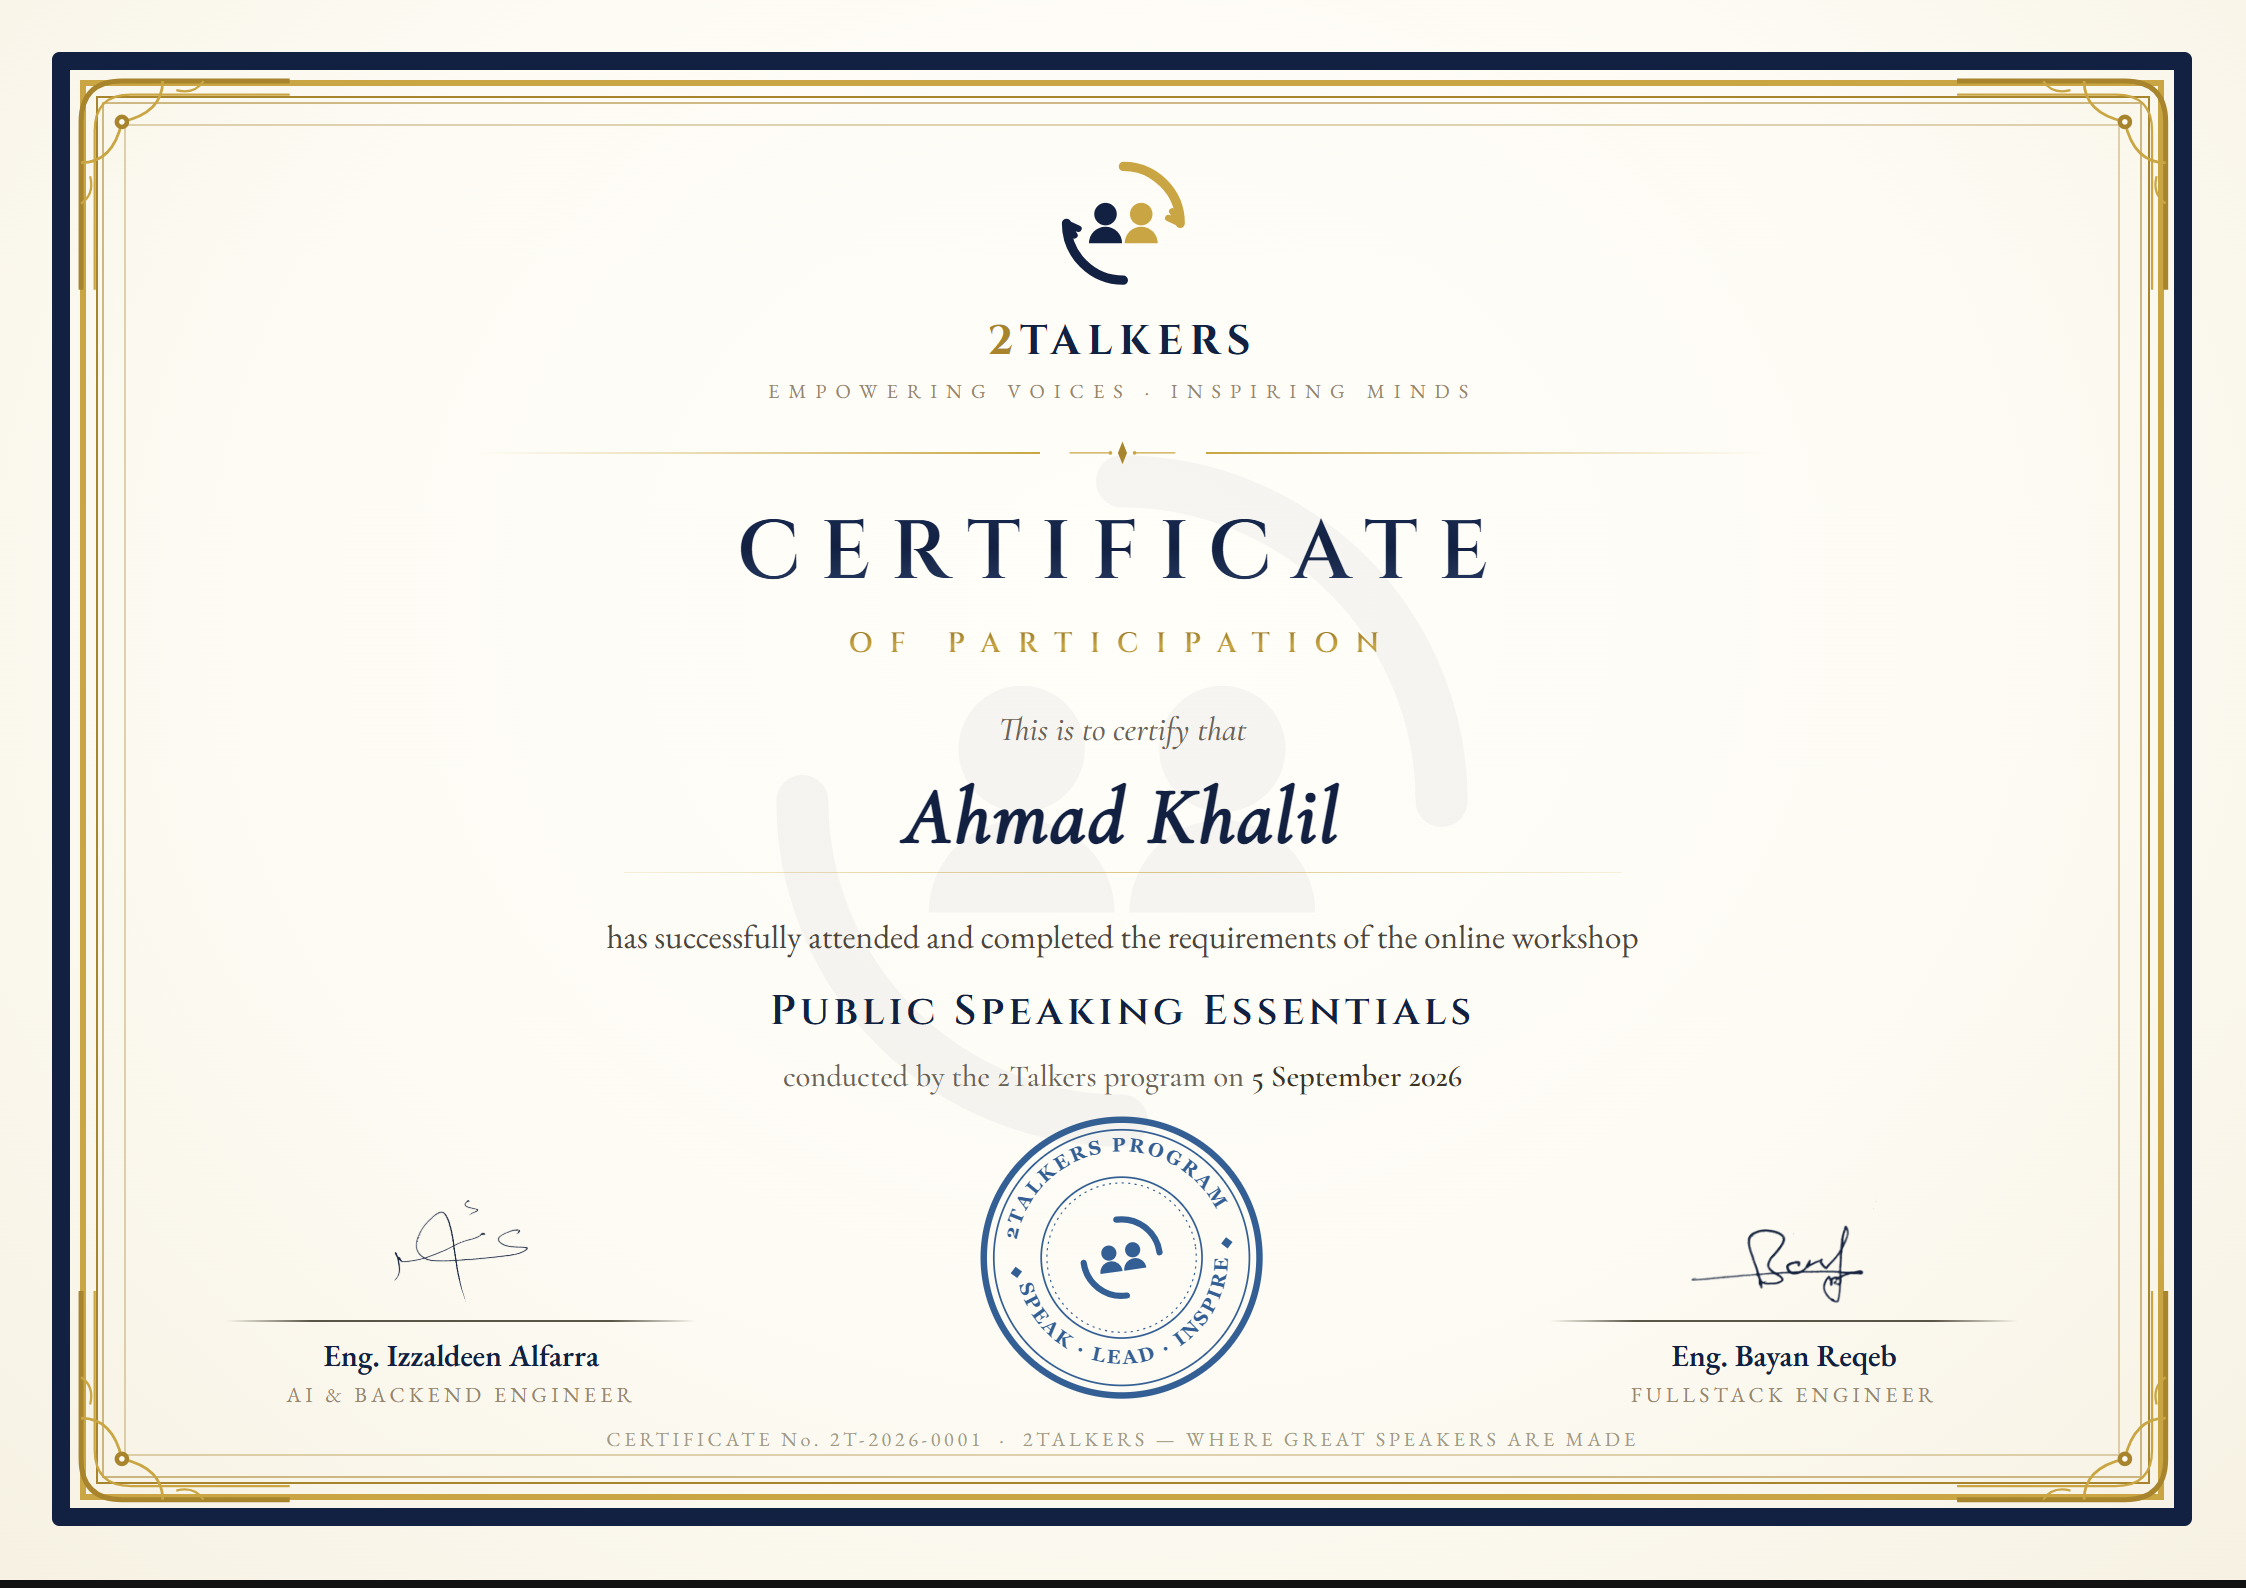
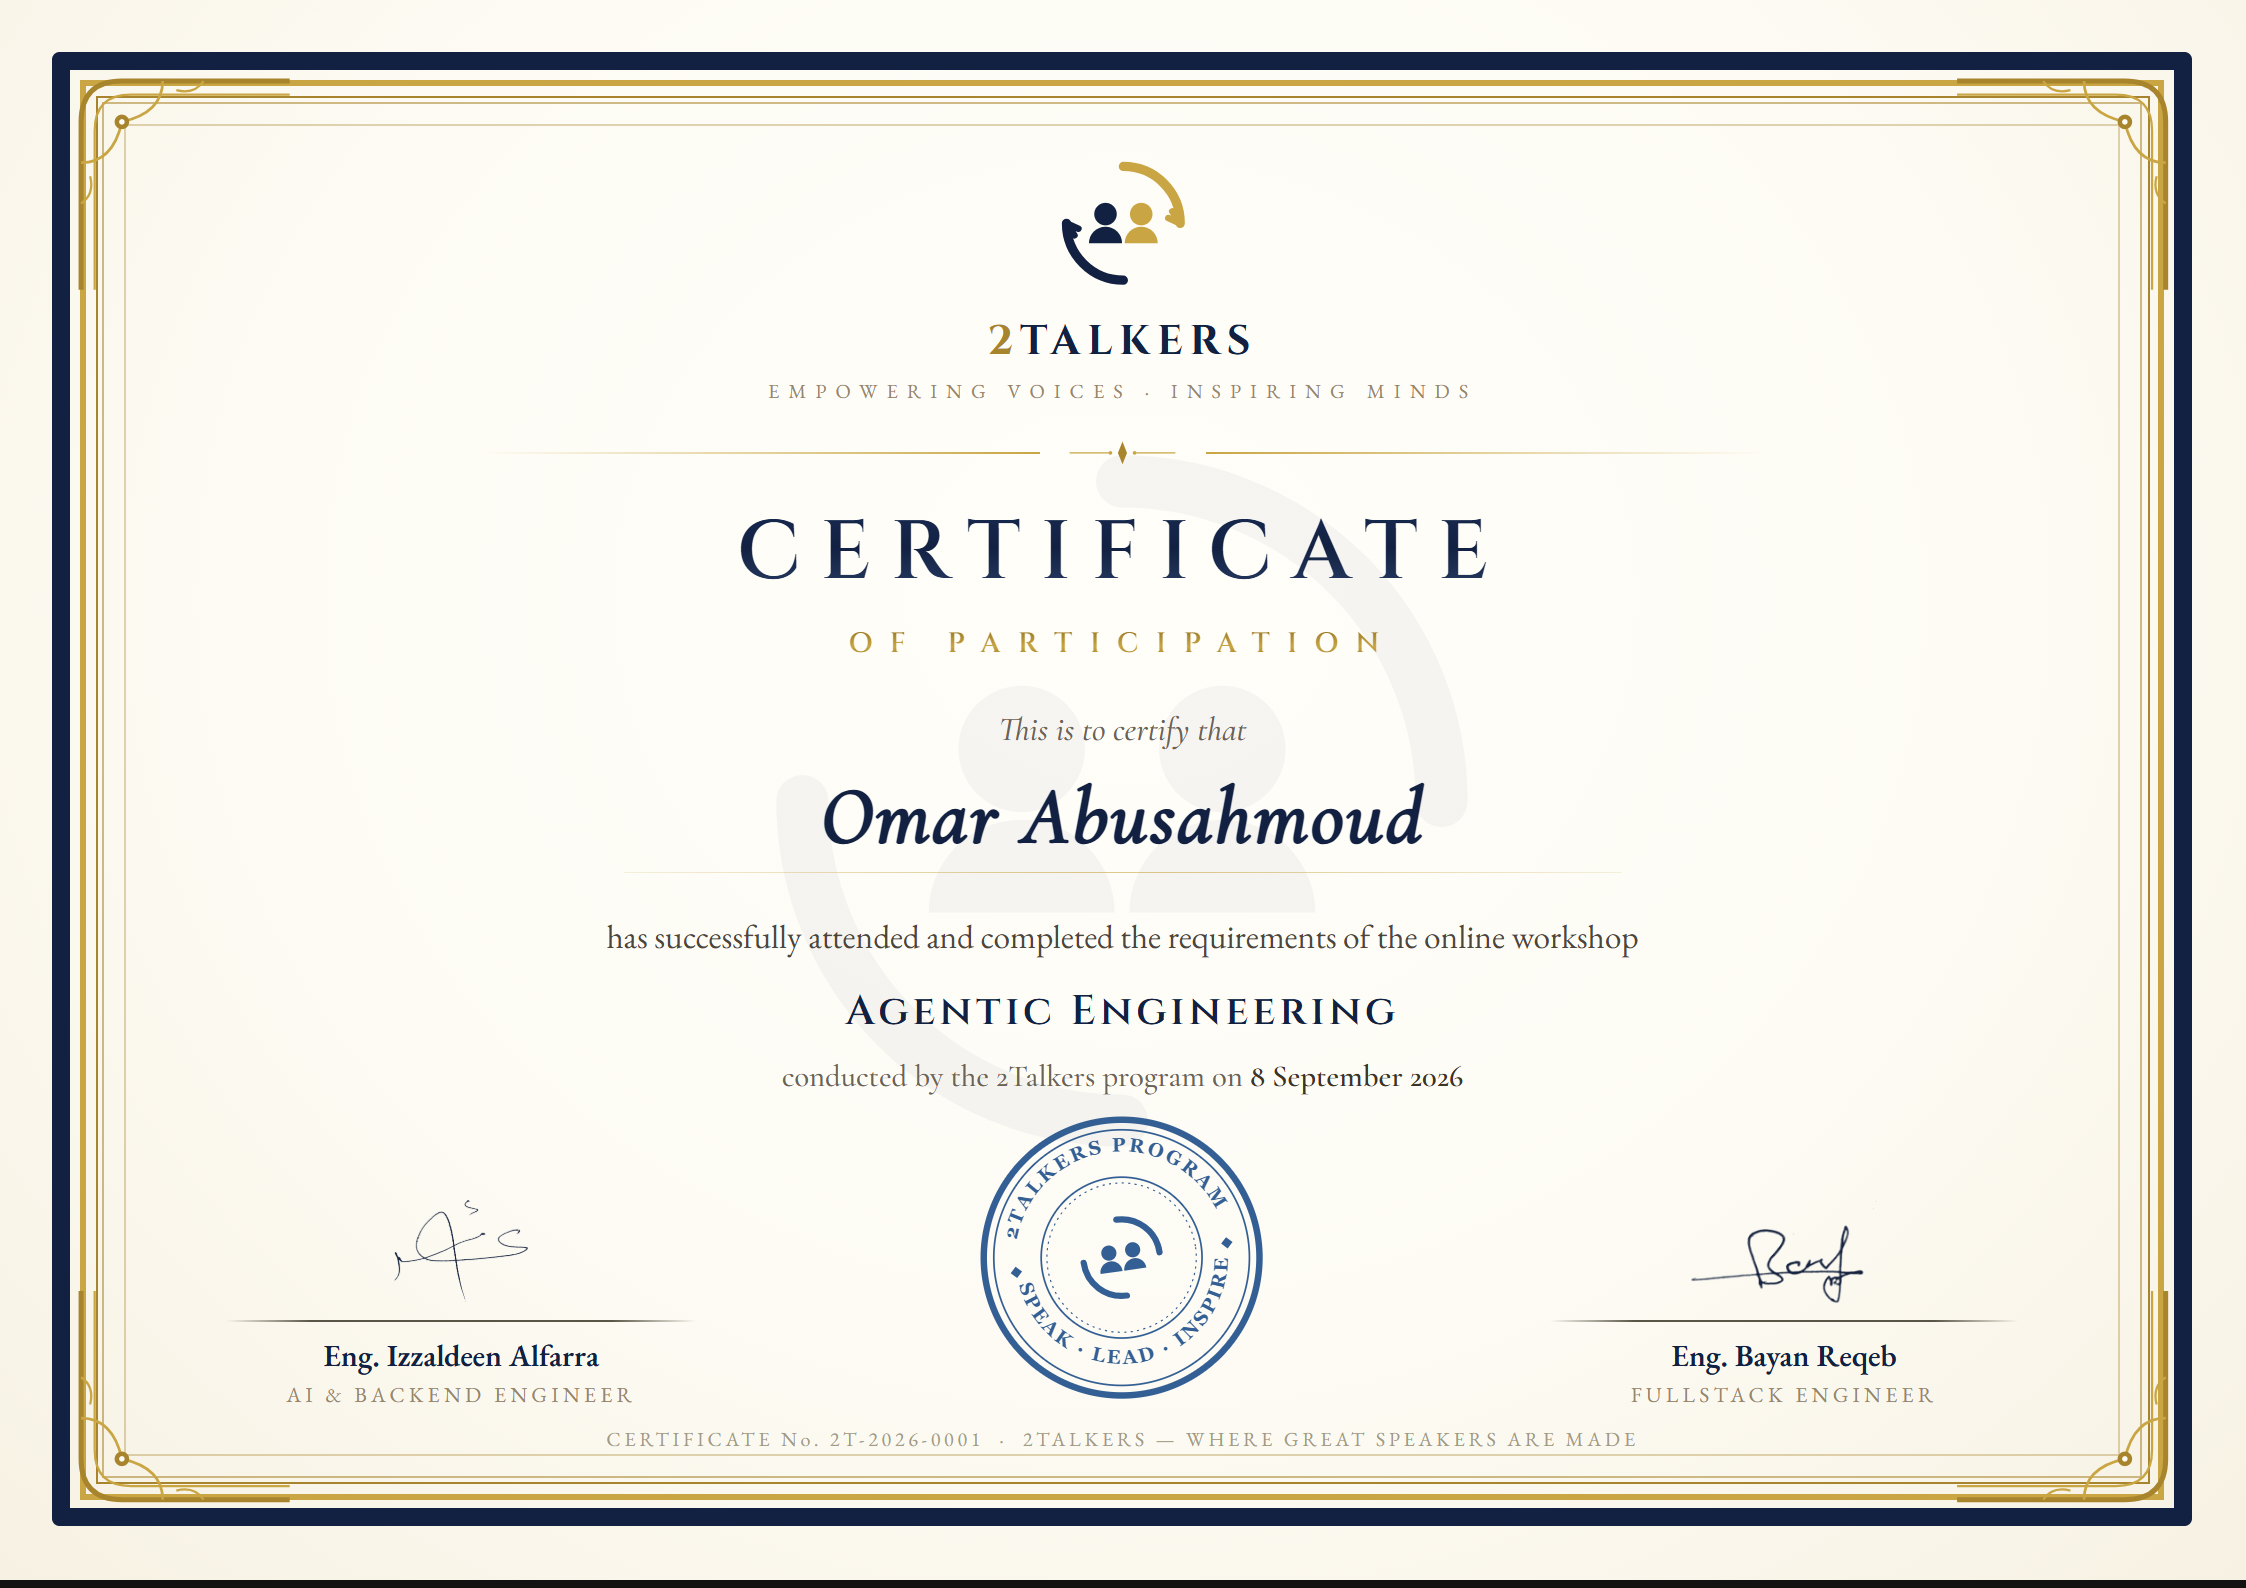
Publish certificates

diff --git a/c/2T-2026-0001/index.html b/c/2T-2026-0001/index.html
@@ -1,9 +1,9 @@
 <!DOCTYPE html>
 <html lang="en"><head><meta charset="UTF-8"><meta name="viewport" content="width=device-width,initial-scale=1">
-<title>Ahmad Khalil — Certificate of Participation</title>
+<title>Omar Abusahmoud — Certificate of Participation</title>
 <meta property="og:type" content="website">
-<meta property="og:title" content="Ahmad Khalil — Certificate of Participation">
-<meta property="og:description" content="Official 2Talkers certificate: "Public Speaking Essentials" · 5 September 2026 · No. 2T-2026-0001">
+<meta property="og:title" content="Omar Abusahmoud — Certificate of Participation">
+<meta property="og:description" content="Official 2Talkers certificate: "Agentic Engineering" · 8 September 2026 · No. 2T-2026-0001">
 <meta property="og:image" content="https://se-bayan-elian.github.io/2talkers-certificates/c/2T-2026-0001/2T-2026-0001.png">
 <meta name="twitter:card" content="summary_large_image">
 <style>
@@ -16,9 +16,9 @@
  .foot{margin-top:24px;font-size:11px;letter-spacing:2px;color:#a8842c}
 </style></head><body>
 <div class="badge">✔ VERIFIED AUTHENTIC</div><br>
-<img class="cert" src="2T-2026-0001.png" alt="Ahmad Khalil — Certificate of Participation">
-<h1>Ahmad Khalil</h1>
-<p>Public Speaking Essentials · 5 September 2026</p>
+<img class="cert" src="2T-2026-0001.png" alt="Omar Abusahmoud — Certificate of Participation">
+<h1>Omar Abusahmoud</h1>
+<p>Agentic Engineering · 8 September 2026</p>
 <p>Certificate No. 2T-2026-0001</p>
 <div class="foot">2TALKERS — WHERE GREAT SPEAKERS ARE MADE</div>
 </body></html>
